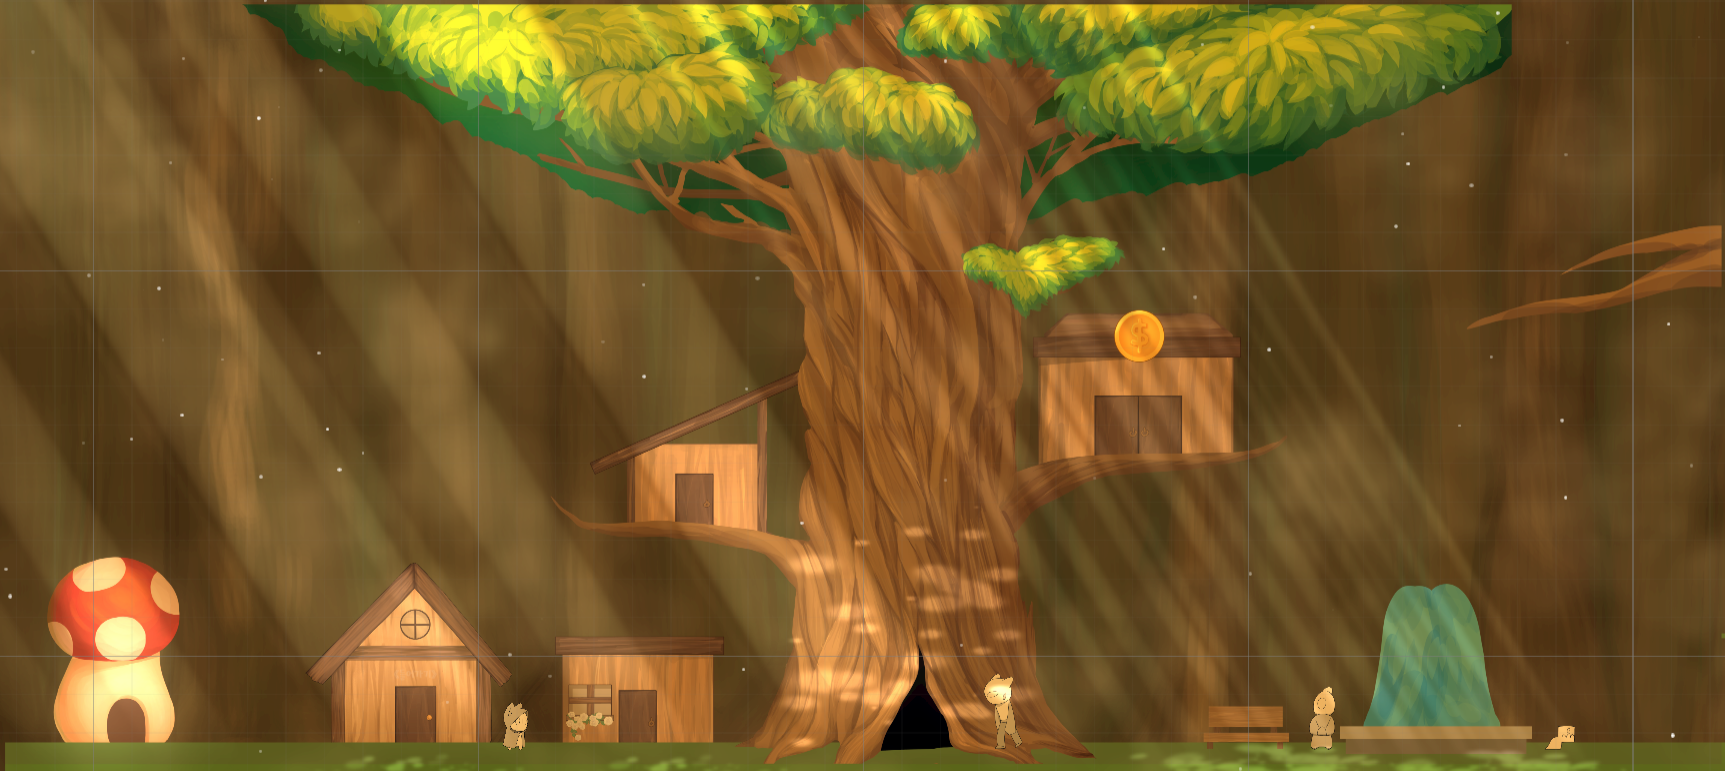
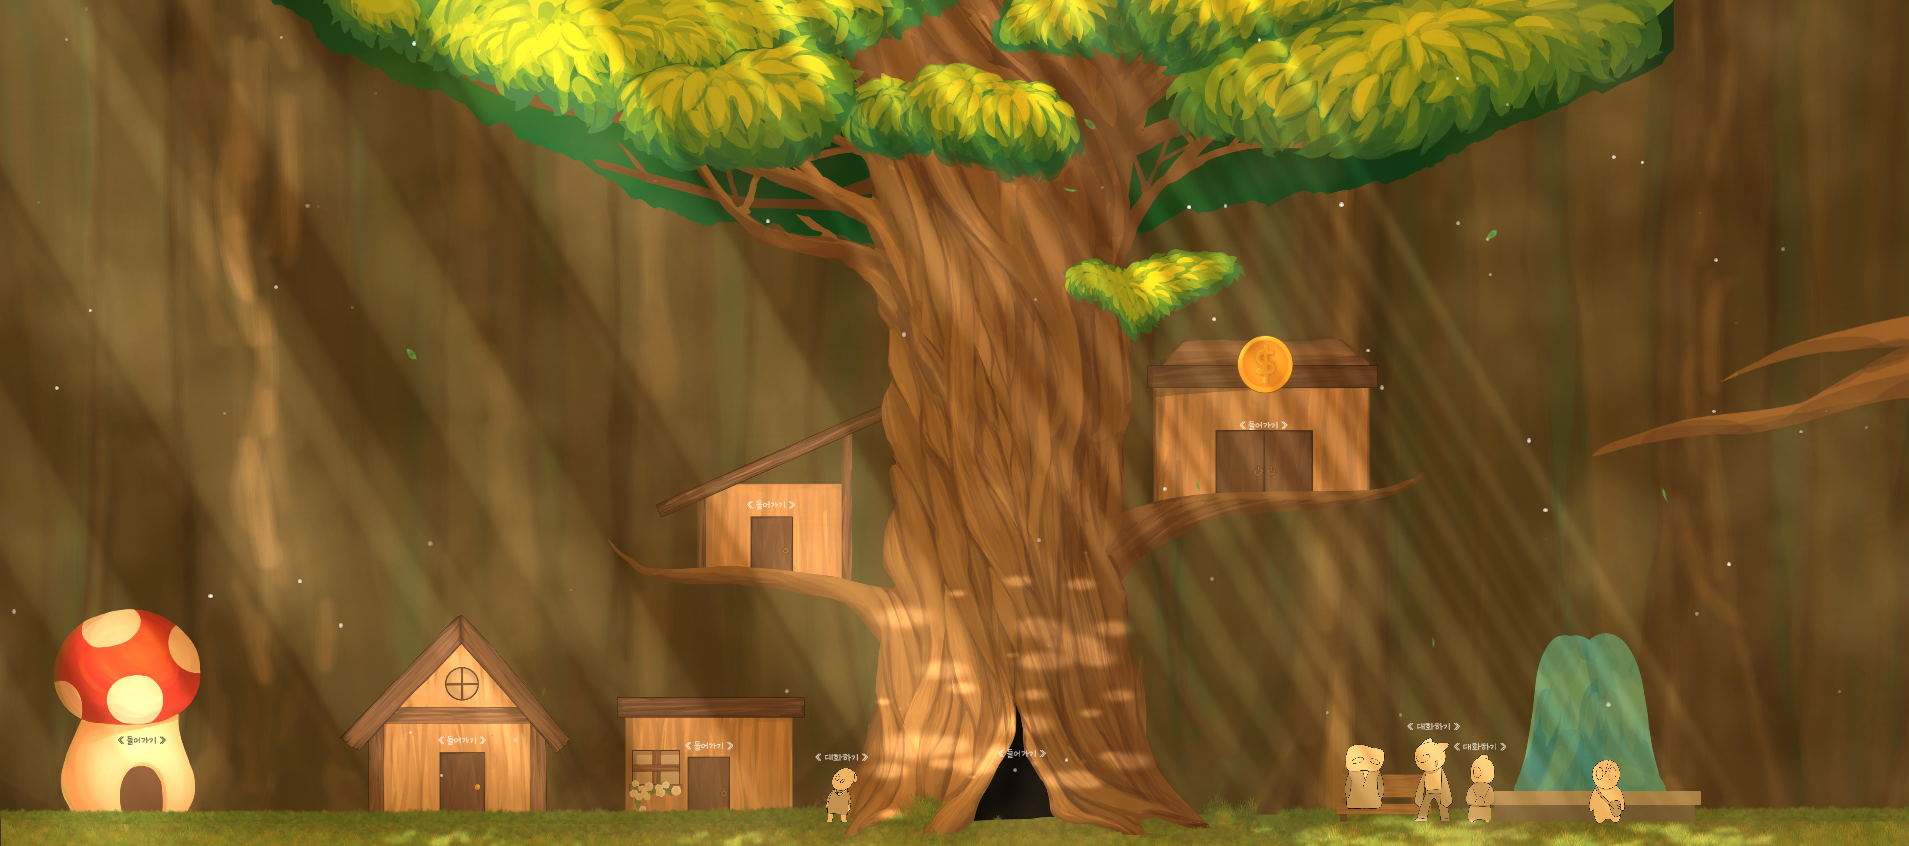
Update 1.0.2 release

diff --git a/index.html b/index.html
@@ -34,7 +34,7 @@
             <div class="container px-4 px-lg-5">
                 <a class="navbar-brand" href="#page-top">Along the color horizon</a>
                 <button class="navbar-toggler navbar-toggler-right" type="button" data-bs-toggle="collapse" data-bs-target="#navbarResponsive" aria-controls="navbarResponsive" aria-expanded="false" aria-label="Toggle navigation">
-                    Menu
+                    메뉴
                     <i class="fas fa-bars"></i>
                 </button>
                 <div class="collapse navbar-collapse" id="navbarResponsive">
@@ -71,7 +71,7 @@
                         </p>
                     </div>
                 </div>
-                <img class="img-fluid" src="assets/img/ipad.png" alt="..." />
+                <img class="img-fluid" src="assets/img/char.png" alt="..." />
             </div>
         </section>
         <!-- Projects-->
@@ -89,7 +89,7 @@
                 </div>
                 <!-- Project One Row-->
                 <div class="row gx-0 mb-5 mb-lg-0 justify-content-center bg-black">
-                    <div class="col-lg-6 bg-black"><img class="img-fluid" src="assets/img/demo-image-01.jpg" alt="..." /></div>
+                    <div class="col-lg-6 bg-black"><img class="img-fluid" src="assets/img/dream.png" alt="..." /></div>
                     <div class="col-lg-6">
                         <div class="bg-black text-center h-100 project">
                             <div class="d-flex h-100">
@@ -104,7 +104,7 @@
                 </div>
                 <!-- Project Two Row-->
                 <div class="row gx-0 justify-content-center">
-                    <div class="col-lg-6 bg-black"><img class="img-fluid" src="assets/img/demo-image-02.jpg" alt="..." /></div>
+                    <div class="col-lg-6 bg-black"><img class="img-fluid" src="assets/img/sageforest.png" alt="..." /></div>
                     <div class="col-lg-6 order-lg-first">
                         <div class="bg-black text-center h-100 project">
                             <div class="d-flex h-100">

diff --git a/index-en.html b/index-en.html
@@ -71,7 +71,7 @@
                         </p>
                     </div>
                 </div>
-                <img class="img-fluid" src="assets/img/ipad.png" alt="..." />
+                <img class="img-fluid" src="assets/img/char.png" alt="..." />
             </div>
         </section>
         <!-- Projects-->
@@ -89,7 +89,7 @@
                 </div>
                 <!-- Project One Row-->
                 <div class="row gx-0 mb-5 mb-lg-0 justify-content-center bg-black">
-                    <div class="col-lg-6 bg-black"><img class="img-fluid" src="assets/img/demo-image-01.jpg" alt="..." /></div>
+                    <div class="col-lg-6 bg-black"><img class="img-fluid" src="assets/img/dream.png" alt="..." /></div>
                     <div class="col-lg-6">
                         <div class="bg-black text-center h-100 project">
                             <div class="d-flex h-100">
@@ -104,7 +104,7 @@
                 </div>
                 <!-- Project Two Row-->
                 <div class="row gx-0 justify-content-center">
-                    <div class="col-lg-6 bg-black"><img class="img-fluid" src="assets/img/demo-image-02.jpg" alt="..." /></div>
+                    <div class="col-lg-6 bg-black"><img class="img-fluid" src="assets/img/sageforest.png" alt="..." /></div>
                     <div class="col-lg-6 order-lg-first">
                         <div class="bg-black text-center h-100 project">
                             <div class="d-flex h-100">
